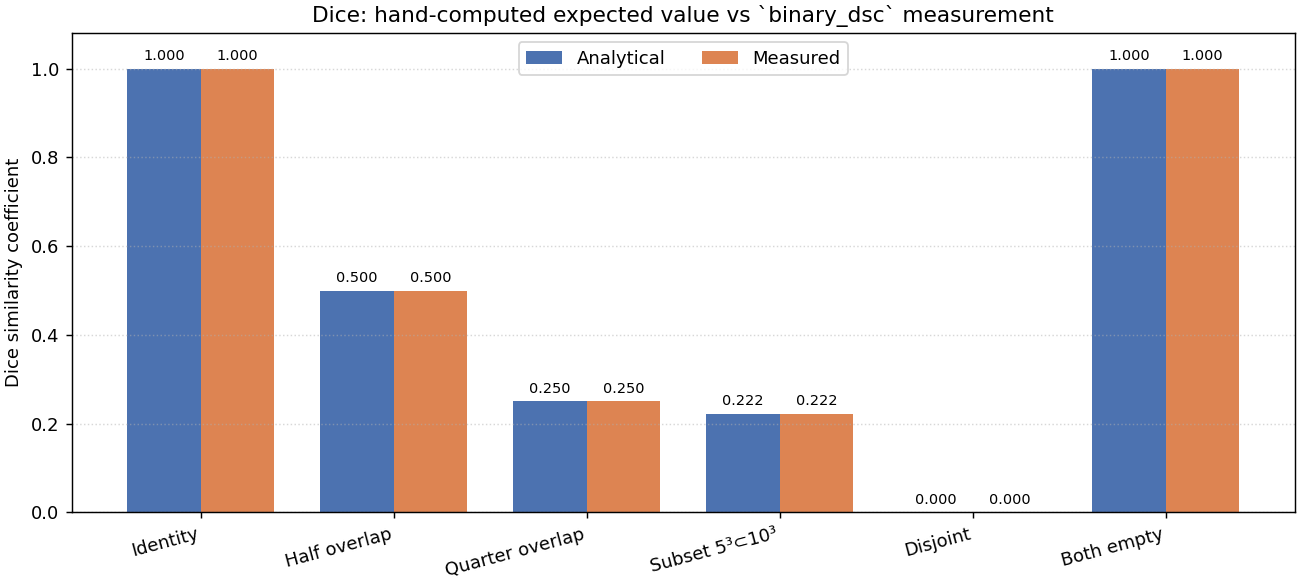
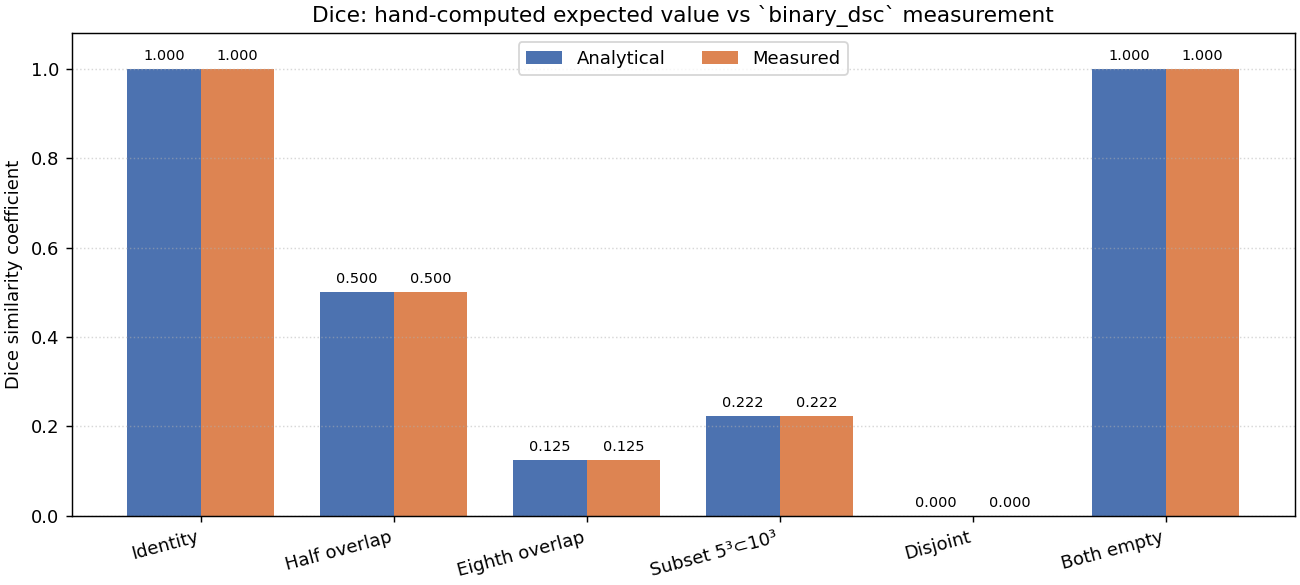
fig1 bar3d rewrite + eighth-overlap case
Replace voxel-grid rendering of the unit-test Dice cases with one bar3d
per shape — two transparent boxes for A and B, opaque box for A ∩ B
drawn last. Reads cleanly without the lattice noise the voxel approach
introduced, and the subset case in particular now shows the inner cube
genuinely contained.

Swap the "Quarter overlap" panel for an "Eighth overlap" case (B shifted
+5 along x, y, and z → Dice = 0.125) in fig1 and fig2, with a matching
unit test pin.

diff --git a/docs/validation/generate_figures.py b/docs/validation/generate_figures.py
@@ -56,78 +56,134 @@ def sphere(shape: tuple[int, int, int], center: tuple[int, int, int], radius: fl
 
 
 def fig_cube_overlap_cases() -> Path:
-    """Six cube-on-cube cases rendered as 3D voxel grids, each annotated with
-    the analytical Dice and the value measured by ``binary_dsc``.
+    """Six cube-on-cube cases rendered with one ``bar3d`` per shape.
 
-    A and B are drawn as semi-transparent voxels (so the geometry of each is
-    visible through the other), and their intersection is rendered solid /
-    opaque — visually mirroring how Dice scores the overlap.
+    Each case has at most three boxes drawn into the same axes:
+      * **A** — semi-transparent (red)
+      * **B** — semi-transparent (blue)
+      * **A ∩ B** — fully opaque (purple)
+
+    Because every shape here is axis-aligned, both A, B, and their
+    intersection are themselves rectangular cuboids — drawn as a single
+    `bar3d` each rather than per-voxel cubes. This keeps the geometry
+    legible: two transparent boxes with an opaque solid where they overlap.
+    Drawn order is A → B → intersection so the opaque solid sits on top.
     """
-    cases = [
-        ("Identity", "A=B (10³)",
-         lambda: (cube((16, 16, 16), (3, 3, 3), 10), cube((16, 16, 16), (3, 3, 3), 10)),
+    Box = tuple[tuple[float, float, float], tuple[float, float, float]]
+    # Coordinates in mm (= voxels at 1 mm spacing). Each box is (origin, size).
+    cases: list[tuple[str, str, Box | None, Box | None, float]] = [
+        ("Identity", "A = B (10³)",
+         ((0.0, 0.0, 0.0), (10.0, 10.0, 10.0)),
+         ((0.0, 0.0, 0.0), (10.0, 10.0, 10.0)),
          1.0),
-        ("Half overlap", "shift +5 along x",
-         lambda: (cube((16, 16, 21), (3, 3, 1), 10), cube((16, 16, 21), (3, 3, 6), 10)),
+        ("Half overlap", "B shifted +5 along x",
+         ((0.0, 0.0, 0.0), (10.0, 10.0, 10.0)),
+         ((5.0, 0.0, 0.0), (10.0, 10.0, 10.0)),
          0.5),
-        ("Quarter overlap", "shift +5 along z and x",
-         lambda: (cube((21, 16, 21), (1, 3, 1), 10), cube((21, 16, 21), (6, 3, 6), 10)),
-         0.25),
-        ("Subset", "5³ centred in 10³",
-         lambda: (cube((16, 16, 16), (3, 3, 3), 10), cube((16, 16, 16), (5, 5, 5), 5)),
+        ("Eighth overlap", "B shifted +5 along x, y and z",
+         ((0.0, 0.0, 0.0), (10.0, 10.0, 10.0)),
+         ((5.0, 5.0, 5.0), (10.0, 10.0, 10.0)),
+         0.125),
+        ("Subset", "5³ centred inside 10³",
+         ((0.0, 0.0, 0.0), (10.0, 10.0, 10.0)),
+         ((2.5, 2.5, 2.5), (5.0, 5.0, 5.0)),
          250.0 / 1125.0),
         ("Disjoint", "no overlap",
-         lambda: (cube((16, 16, 16), (1, 1, 1), 5), cube((16, 16, 16), (10, 10, 10), 5)),
+         ((0.0, 0.0, 0.0), (5.0, 5.0, 5.0)),
+         ((10.0, 10.0, 10.0), (5.0, 5.0, 5.0)),
          0.0),
-        ("One empty", "A=10³, B=∅",
-         lambda: (cube((16, 16, 16), (3, 3, 3), 10), np.zeros((16, 16, 16), np.uint8)),
+        ("One empty", "A = 10³, B = ∅",
+         ((0.0, 0.0, 0.0), (10.0, 10.0, 10.0)),
+         None,
          0.0),
     ]
 
-    fig = plt.figure(figsize=(15, 10))
-    fig.suptitle("Unit-test Dice cases — analytical vs measured", fontsize=15, y=0.98)
+    a_color = "#cc4444"        # red
+    b_color = "#4466cc"        # blue
+    inter_color = "#6a3a8a"    # purple
+    soft_alpha = 0.25
+    solid_alpha = 1.00
 
-    a_color = (0.85, 0.20, 0.20)  # red
-    b_color = (0.20, 0.35, 0.70)  # blue
-    inter_color = (0.45, 0.20, 0.55)  # purple
-    soft_alpha = 0.20  # A-only / B-only — see-through
-    solid_alpha = 1.00  # intersection — opaque
+    def draw_box(ax, box: Box, color: str, alpha: float) -> None:
+        (ox, oy, oz), (sx, sy, sz) = box
+        ax.bar3d(
+            ox, oy, oz, sx, sy, sz,
+            color=color, alpha=alpha, shade=True,
+            edgecolor="black", linewidth=0.6,
+        )
 
-    for idx, (title, desc, build, expected) in enumerate(cases):
+    def intersect(a: Box | None, b: Box | None) -> Box | None:
+        if a is None or b is None:
+            return None
+        (ax_, ay_, az_), (asx, asy, asz) = a
+        (bx_, by_, bz_), (bsx, bsy, bsz) = b
+        lo = (max(ax_, bx_), max(ay_, by_), max(az_, bz_))
+        hi = (min(ax_ + asx, bx_ + bsx),
+              min(ay_ + asy, by_ + bsy),
+              min(az_ + asz, bz_ + bsz))
+        size = (hi[0] - lo[0], hi[1] - lo[1], hi[2] - lo[2])
+        if min(size) <= 0:
+            return None
+        return (lo, size)
+
+    def measure_dice(a: Box | None, b: Box | None) -> float:
+        """Voxelize both boxes onto a shared integer grid and call binary_dsc.
+
+        Boxes use 1 mm spacing, so 1 voxel = 1 mm³. Expanding to ints is
+        loss-free here — every box edge lands on a whole-mm grid point.
+        """
+        boxes = [x for x in (a, b) if x is not None]
+        if not boxes:
+            return 1.0  # both empty, by convention
+        max_xyz = [int(max(o[i] + s[i] for o, s in boxes)) + 1 for i in range(3)]
+        ag = np.zeros((max_xyz[2], max_xyz[1], max_xyz[0]), dtype=np.uint8)
+        bg = np.zeros_like(ag)
+
+        def fill(grid: np.ndarray, box: Box) -> None:
+            (ox, oy, oz), (sx, sy, sz) = box
+            grid[int(oz):int(oz + sz), int(oy):int(oy + sy), int(ox):int(ox + sx)] = 1
+
+        if a is not None:
+            fill(ag, a)
+        if b is not None:
+            fill(bg, b)
+        return binary_dsc(ag, bg)
+
+    fig = plt.figure(figsize=(15, 9.5))
+    fig.suptitle("Unit-test Dice cases — analytical vs measured", fontsize=15, y=0.985)
+
+    for idx, (title, desc, a_box, b_box, expected) in enumerate(cases):
         ax = fig.add_subplot(2, 3, idx + 1, projection="3d")
-        a, b = build()
-        a_b = a.astype(bool)
-        b_b = b.astype(bool)
 
-        filled = a_b | b_b
-        # RGBA per voxel — mpl voxels expects shape (*filled.shape, 4).
-        colors = np.zeros(filled.shape + (4,), dtype=float)
-        a_only = a_b & ~b_b
-        b_only = b_b & ~a_b
-        inter = a_b & b_b
-        colors[a_only] = (*a_color, soft_alpha)
-        colors[b_only] = (*b_color, soft_alpha)
-        colors[inter] = (*inter_color, solid_alpha)
+        # Draw order matters under transparency: A first, then B, then the
+        # opaque intersection on top. matplotlib's depth sorting on
+        # transparent surfaces is approximate, but for two cuboids + one
+        # opaque interior cuboid this order reads correctly.
+        if a_box is not None:
+            draw_box(ax, a_box, a_color, soft_alpha)
+        if b_box is not None:
+            draw_box(ax, b_box, b_color, soft_alpha)
+        ibox = intersect(a_box, b_box)
+        if ibox is not None:
+            draw_box(ax, ibox, inter_color, solid_alpha)
 
-        if filled.any():
-            ax.voxels(
-                filled,
-                facecolors=colors,
-                edgecolor=(0.1, 0.1, 0.1, 0.25),
-                linewidth=0.2,
-            )
+        # Bound the axes to the union of A and B with a small margin.
+        present = [x for x in (a_box, b_box) if x is not None]
+        if present:
+            lo = min(o[i] for o, _ in present for i in range(3))
+            hi = max(o[i] + s[i] for o, s in present for i in range(3))
+            pad = 0.05 * (hi - lo)
+            ax.set_xlim(lo - pad, hi + pad)
+            ax.set_ylim(lo - pad, hi + pad)
+            ax.set_zlim(lo - pad, hi + pad)
+        ax.set_box_aspect((1, 1, 1))
+        ax.view_init(elev=20, azim=-55)
+        ax.set_xlabel("x (mm)", fontsize=8, labelpad=-6)
+        ax.set_ylabel("y (mm)", fontsize=8, labelpad=-6)
+        ax.set_zlabel("z (mm)", fontsize=8, labelpad=-6)
+        ax.tick_params(axis="both", which="major", labelsize=7, pad=-2)
 
-        # Equal aspect for a true cube look; consistent view across panels.
-        ax.set_box_aspect((filled.shape[2], filled.shape[1], filled.shape[0]))
-        ax.view_init(elev=22, azim=-60)
-        ax.set_xticks([])
-        ax.set_yticks([])
-        ax.set_zticks([])
-        for spine in ("xaxis", "yaxis", "zaxis"):
-            getattr(ax, spine).pane.set_visible(False)
-        ax.grid(False)
-
-        measured = binary_dsc(a, b)
+        measured = measure_dice(a_box, b_box)
         ax.set_title(
             f"{title} — {desc}\n"
             f"analytical Dice = {expected:.4f}   measured Dice = {measured:.4f}",
@@ -135,14 +191,14 @@ def fig_cube_overlap_cases() -> Path:
         )
 
     legend = [
-        mpatches.Patch(color=a_color, alpha=soft_alpha + 0.15, label="A (prediction, transparent)"),
-        mpatches.Patch(color=b_color, alpha=soft_alpha + 0.15, label="B (ground truth, transparent)"),
+        mpatches.Patch(color=a_color, alpha=soft_alpha + 0.20, label="A (prediction)"),
+        mpatches.Patch(color=b_color, alpha=soft_alpha + 0.20, label="B (ground truth)"),
         mpatches.Patch(color=inter_color, alpha=solid_alpha, label="A ∩ B (opaque)"),
     ]
     fig.legend(handles=legend, loc="lower center", ncol=3, frameon=False,
                bbox_to_anchor=(0.5, 0.01))
     fig.subplots_adjust(top=0.92, bottom=0.08, hspace=0.30, wspace=0.05,
-                        left=0.02, right=0.98)
+                        left=0.03, right=0.97)
 
     path = OUT / "fig1_cube_overlap_cases.png"
     fig.savefig(path, dpi=130, bbox_inches="tight")
@@ -159,7 +215,8 @@ def fig_expected_vs_measured_dice() -> Path:
     cases = [
         ("Identity", 1.0, *(cube((20, 20, 20), (5, 5, 5), 10),) * 2),
         ("Half overlap", 0.5, cube((20, 20, 20), (5, 5, 0), 10), cube((20, 20, 20), (5, 5, 5), 10)),
-        ("Quarter overlap", 0.25, cube((20, 20, 20), (0, 5, 0), 10), cube((20, 20, 20), (5, 5, 5), 10)),
+        ("Eighth overlap", 0.125,
+         cube((20, 20, 20), (0, 0, 0), 10), cube((20, 20, 20), (5, 5, 5), 10)),
         ("Subset 5³⊂10³", 250.0 / 1125.0,
          cube((20, 20, 20), (5, 5, 5), 10), cube((20, 20, 20), (7, 7, 7), 5)),
         ("Disjoint", 0.0,

diff --git a/src/rtmask_conformance/tests/test_metric_math.py b/src/rtmask_conformance/tests/test_metric_math.py
@@ -111,6 +111,18 @@ def test_dsc_quarter_overlap_two_axis_shift() -> None:
     assert binary_dsc(a, b) == pytest.approx(0.25)
 
 
+def test_dsc_eighth_overlap_three_axis_shift() -> None:
+    """Two 10³ cubes shifted +5 along all three axes.
+
+    A occupies (0:10, 0:10, 0:10); B occupies (5:15, 5:15, 5:15).
+    Intersection on every axis is [5, 10) → 5 voxels per axis.
+    Inter = 5³ = 125.  |A|+|B| = 2000.  Dice = 2·125/2000 = 0.125.
+    """
+    a = _cube((20, 20, 20), (0, 0, 0), 10)
+    b = _cube((20, 20, 20), (5, 5, 5), 10)
+    assert binary_dsc(a, b) == pytest.approx(0.125)
+
+
 def test_dsc_shape_mismatch_raises() -> None:
     a = np.zeros((10, 10, 10), dtype=np.uint8)
     b = np.zeros((10, 10, 11), dtype=np.uint8)

diff --git a/docs/VALIDATION.md b/docs/VALIDATION.md
@@ -45,7 +45,7 @@ The arithmetic for each:
 |---|---|---|---|
 | Identity | `A = B` (10³ cube) | 1000 / 2000 | **1.0000** |
 | Half overlap | `B = A` shifted +5 vx along x | 500 / 2000 | **0.5000** |
-| Quarter overlap | `B = A` shifted +5 vx along z and x | 250 / 2000 | **0.2500** |
+| Eighth overlap | `B = A` shifted +5 vx along x, y, and z | 125 / 2000 | **0.1250** |
 | Subset | 5³ cube centred inside `A` (10³) | 125 / 1125 | **0.2222** |
 | Disjoint | two 5³ cubes far apart | 0 / 250 | **0.0000** |
 | One empty | `A = 10³`, `B = ∅` | 0 / 1000 | **0.0000** |